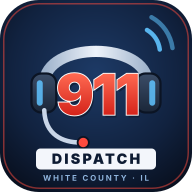
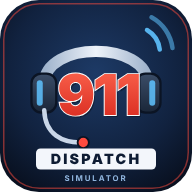
Legal hardening: fictional agency/hospital/business names, privacy note, license
- Real hospitals, police/fire/EMS agencies, sheriff's office, schools, businesses,
  phone carriers and product names replaced with fictional or generic names
- 911 center branding is now generic (Regional 911); logo and PNG icons updated
- About page: privacy section and names/trademarks note; copyright footer
- LICENSE (all rights reserved + disclaimer); README legal section; cache v4

Claude-Session: https://claude.ai/code/session_011PBpL3B4jtNJuyyqCt64h9

diff --git a/js/data/city.js b/js/data/city.js
@@ -412,54 +412,54 @@ export function nearestEdge(x, y, filter) {
 const C = TOWN_BY_ID.carmi;
 const T = (id, i, j, dx = 0, dy = 0) => { const t = TOWN_BY_ID[id]; return [t.xs[i] + dx, t.ys[j] + dy]; };
 const FACILITY_DEFS = [
-  ['police_hq', 'Carmi Police Department', ...T('carmi', 5, 4, 40, 35), 'Carmi PD'],
-  ['precinct', 'Norris City Police Department', ...T('norris', 2, 2, 40, 30), 'Norris City PD'],
-  ['precinct', 'Grayville Police Department', ...T('grayville', 2, 2, 40, -30), 'Grayville PD'],
-  ['precinct', 'Crossville Police Department', ...T('crossville', 2, 2, -35, 30), 'Crossville PD'],
-  ['precinct', 'Enfield Police Department', ...T('enfield', 2, 2, 35, -30), 'Enfield PD'],
-  ['sheriff', "White County Sheriff's Office", ...T('carmi', 6, 4, 45, -35), 'Sheriff'],
+  ['police_hq', 'City Police – Carmi', ...T('carmi', 5, 4, 40, 35), 'Police – Carmi'],
+  ['precinct', 'Town Police – Norris City', ...T('norris', 2, 2, 40, 30), 'Police – Norris City'],
+  ['precinct', 'Town Police – Grayville', ...T('grayville', 2, 2, 40, -30), 'Police – Grayville'],
+  ['precinct', 'Town Police – Crossville', ...T('crossville', 2, 2, -35, 30), 'Police – Crossville'],
+  ['precinct', 'Town Police – Enfield', ...T('enfield', 2, 2, 35, -30), 'Police – Enfield'],
+  ['sheriff', "County Sheriff's Office", ...T('carmi', 6, 4, 45, -35), 'Sheriff'],
   ['federal', 'Federal Field Office – I-64 staging', 12320, 1480, 'Federal'],
-  ['eoc', 'White County 911 & EMA (your center)', ...T('carmi', 4, 3, 40, 40), '911 / EMA'],
-  ['fire', 'Carmi Fire Department – Station 1', ...T('carmi', 4, 4, -40, 35), 'Carmi FD 1'],
-  ['fire', 'Carmi Fire Department – Station 2', ...T('carmi', 8, 6, 40, 30), 'Carmi FD 2'],
-  ['fire', 'Norris City Fire Department', ...T('norris', 3, 2, 35, -30), 'Norris City FD'],
-  ['fire', 'Enfield Fire Department', ...T('enfield', 2, 3, -35, 30), 'Enfield FD'],
-  ['fire', 'Crossville Fire Department', ...T('crossville', 3, 2, 35, 30), 'Crossville FD'],
-  ['fire', 'Grayville Fire Department', ...T('grayville', 3, 2, 35, 30), 'Grayville FD'],
-  ['fire', 'Mill Shoals Fire Department', ...T('millshoals', 2, 2, 35, 30), 'Mill Shoals FD'],
-  ['fire', 'Burnt Prairie Fire Department', ...T('burntprairie', 2, 2, 35, 30), 'Burnt Prairie FD'],
-  ['fire', 'Southeastern White County Fire (Maunie)', ...T('maunie', 1, 1, 30, 30), 'SE White FD'],
-  ['fire', 'Springerton Fire Department', ...T('springerton', 1, 1, 30, 30), 'Springerton FD'],
-  ['fire_hq', 'Carmi Fire Administration', ...T('carmi', 4, 4, -60, 60), 'Fire Admin'],
-  ['ems', 'White County Ambulance Service (Carmi)', ...T('carmi', 3, 5, 40, 35), 'WCAS Carmi'],
-  ['ems', 'White County Ambulance – Norris City', ...T('norris', 1, 2, 35, 30), 'WCAS Norris'],
-  ['ems', 'White County Ambulance – Grayville', ...T('grayville', 1, 2, 35, 30), 'WCAS Grayville'],
-  ['ems', 'White County Ambulance – Crossville', ...T('crossville', 1, 2, 35, -30), 'WCAS Crossville'],
-  ['hospital', 'Carmi Township Hospital', ...T('carmi', 2, 6, 55, 40), 'Carmi Twp Hospital', { trauma: 3 }],
-  ['hospital', 'Deaconess Midtown (Evansville, IN)', 22520, 10050, 'Deaconess', { trauma: 1, outside: true }],
-  ['hospital', 'Ferrell Hospital (Eldorado)', -1620, 15700, 'Ferrell Hosp.', { trauma: 3, outside: true }],
-  ['hospital', 'Fairfield Memorial Hospital', 520, -3640, 'Fairfield Mem.', { trauma: 3, outside: true }],
-  ['hospital_helipad', 'Carmi Township Hospital Helipad', ...T('carmi', 2, 6, 25, 75), 'Helipad'],
+  ['eoc', 'Regional 911 Center (your center)', ...T('carmi', 4, 3, 40, 40), '911 / EMA'],
+  ['fire', 'Fire Station 1 – Carmi', ...T('carmi', 4, 4, -40, 35), 'Fire 1 – Carmi'],
+  ['fire', 'Fire Station 2 – Carmi', ...T('carmi', 8, 6, 40, 30), 'Fire 2 – Carmi'],
+  ['fire', 'Fire Station – Norris City', ...T('norris', 3, 2, 35, -30), 'Fire – Norris City'],
+  ['fire', 'Fire Station – Enfield', ...T('enfield', 2, 3, -35, 30), 'Fire – Enfield'],
+  ['fire', 'Fire Station – Crossville', ...T('crossville', 3, 2, 35, 30), 'Fire – Crossville'],
+  ['fire', 'Fire Station – Grayville', ...T('grayville', 3, 2, 35, 30), 'Fire – Grayville'],
+  ['fire', 'Fire Station – Mill Shoals', ...T('millshoals', 2, 2, 35, 30), 'Fire – Mill Shoals'],
+  ['fire', 'Fire Station – Burnt Prairie', ...T('burntprairie', 2, 2, 35, 30), 'Fire – Burnt Prairie'],
+  ['fire', 'Fire Station – Maunie', ...T('maunie', 1, 1, 30, 30), 'Fire – Maunie'],
+  ['fire', 'Fire Station – Springerton', ...T('springerton', 1, 1, 30, 30), 'Fire – Springerton'],
+  ['fire_hq', 'Fire Administration – Carmi', ...T('carmi', 4, 4, -60, 60), 'Fire Admin'],
+  ['ems', 'County EMS – Carmi', ...T('carmi', 3, 5, 40, 35), 'EMS – Carmi'],
+  ['ems', 'County EMS – Norris City', ...T('norris', 1, 2, 35, 30), 'EMS – Norris'],
+  ['ems', 'County EMS – Grayville', ...T('grayville', 1, 2, 35, 30), 'EMS – Grayville'],
+  ['ems', 'County EMS – Crossville', ...T('crossville', 1, 2, 35, -30), 'EMS – Crossville'],
+  ['hospital', 'Riverbend Medical Center', ...T('carmi', 2, 6, 55, 40), 'Riverbend Medical', { trauma: 3 }],
+  ['hospital', 'Tri-State Regional Trauma Center (Evansville, IN)', 22520, 10050, 'Tri-State Trauma', { trauma: 1, outside: true }],
+  ['hospital', 'Saline Valley Hospital (Eldorado)', -1620, 15700, 'Saline Valley Hosp.', { trauma: 3, outside: true }],
+  ['hospital', 'Prairie View Hospital (Fairfield)', 520, -3640, 'Prairie View Hosp.', { trauma: 3, outside: true }],
+  ['hospital_helipad', 'Riverbend Medical Center Helipad', ...T('carmi', 2, 6, 25, 75), 'Helipad'],
   ['airport', 'Carmi Municipal Airport', 5880, 7360, 'Carmi Airport'],
   ['marina', 'Grayville Wabash River Boat Ramp', ...T('grayville', 4, 2, 60, 0), 'Boat Ramp'],
   ['coastguard', 'Wabash River Station (IL-14 landing)', 11380, 4820, 'River Station'],
-  ['sar', 'White County Search & Rescue', ...T('carmi', 7, 6, 40, 30), 'SAR'],
+  ['sar', 'County Search & Rescue', ...T('carmi', 7, 6, 40, 30), 'SAR'],
   ['public_works', 'Carmi Public Works / County Highway Dept', ...T('carmi', 8, 1, 40, 30), 'Public Works'],
-  ['animal_control', 'White County Animal Control', ...T('carmi', 6, 7, 40, 30), 'Animal Ctrl'],
-  ['dot', 'IDOT Maintenance Yard (Carmi)', 5180, 6230, 'IDOT'],
+  ['animal_control', 'County Animal Control', ...T('carmi', 6, 7, 40, 30), 'Animal Ctrl'],
+  ['dot', 'State Highway Maintenance Yard (Carmi)', 5180, 6230, 'State DOT'],
   ['utility', 'Electric Co-op Operations Center', ...T('carmi', 7, 0, 40, 30), 'Electric Co-op'],
 ];
 
 const POI_DEFS = [
   ['White County Courthouse', ...T('carmi', 5, 4, -45, -40), 'downtown', 'government'],
   ['Carmi City Hall', ...T('carmi', 5, 4, 45, -40), 'downtown', 'government'],
-  ['Carmi-White County High School', ...T('carmi', 2, 0, 55, 45), 'institutional', 'school'],
-  ['Carmi-White County Junior High', ...T('carmi', 1, 1, 55, 45), 'residential', 'school'],
+  ['Carmi Area High School', ...T('carmi', 2, 0, 55, 45), 'institutional', 'school'],
+  ['Carmi Area Junior High', ...T('carmi', 1, 1, 55, 45), 'residential', 'school'],
   ['Carmi Elementary School', ...T('carmi', 7, 2, 55, 45), 'residential', 'school'],
   ['White County Fairgrounds', ...T('carmi', 9, 0, 120, -160), 'commercial', 'arena'],
-  ['The Ratcliff Inn', ...T('carmi', 4, 4, 55, -38), 'downtown', 'hotel'],
+  ['The Old Courthouse Inn', ...T('carmi', 4, 4, 55, -38), 'downtown', 'hotel'],
   ['Carmi Supercenter', ...T('carmi', 2, 7, -45, 40), 'commercial', 'mall'],
-  ['County Market Grocery', ...T('carmi', 1, 5, 55, 35), 'commercial', 'grocery'],
+  ['Main Street Grocery', ...T('carmi', 1, 5, 55, 35), 'commercial', 'grocery'],
   ['QuickStop Gas – West Main', ...T('carmi', 1, 4, 55, 35), 'commercial', 'gas'],
   ['QuickStop Gas – East Main', ...T('carmi', 8, 4, 55, -35), 'commercial', 'gas'],
   ['Main Street Diner', ...T('carmi', 5, 4, 55, 38), 'downtown', 'restaurant'],
@@ -476,7 +476,7 @@ const POI_DEFS = [
   ['Carmi Rail Spur', ...T('carmi', 8, 1, 60, 60), 'industrial', 'railyard'],
   ['Little Wabash River Boat Access', 6520, 6240, 'commercial', 'boardwalk'],
   ['Carmi Office Plaza', ...T('carmi', 6, 3, 55, 45), 'downtown', 'office'],
-  ['Norris City-Omaha-Enfield High School', ...T('norris', 0, 1, 50, 45), 'residential', 'school'],
+  ['Southern Prairie High School', ...T('norris', 0, 1, 50, 45), 'residential', 'school'],
   ['Norris City Dollar Store', ...T('norris', 2, 2, -45, -40), 'commercial', 'store'],
   ['Grayville Truck Stop (I-64 Exit 130)', 10560, 1700, 'commercial', 'gas'],
   ['Grayville Riverfront Park', ...T('grayville', 4, 1, 60, 40), 'park', 'park'],

diff --git a/js/ai/staffDialogue.js b/js/ai/staffDialogue.js
@@ -15,8 +15,8 @@ export const STAFF = [
   { id: 'karen', name: 'Karen Whitfield', role: 'Shift Supervisor', sex: 'f', pitch: 0.95, rate: 1.0, personality: 'no-nonsense but fair supervisor who protects her people', kind: 'supervisor' },
   { id: 'marcus', name: 'Marcus Reyes', role: 'Training Officer', sex: 'm', pitch: 0.95, rate: 0.98, personality: 'enthusiastic teacher who loves explaining things', kind: 'trainer' },
   { id: 'helen', name: 'Helen Park', role: 'Communications Director', sex: 'f', pitch: 0.97, rate: 0.95, personality: 'thoughtful leader focused on her team\'s growth', kind: 'director' },
-  { id: 'jake', name: 'Officer Jake Morrison', role: 'Carmi PD (visiting)', sex: 'm', pitch: 0.9, rate: 1.0, personality: 'friendly patrol cop grabbing coffee between calls', kind: 'visitor', dept: 'police' },
-  { id: 'lou', name: 'Lt. Lou Bennett', role: 'Carmi FD (visiting)', sex: 'm', pitch: 0.82, rate: 0.92, personality: 'big-hearted fire lieutenant who tells long stories', kind: 'visitor', dept: 'fire' },
+  { id: 'jake', name: 'Officer Jake Morrison', role: 'City Police (visiting)', sex: 'm', pitch: 0.9, rate: 1.0, personality: 'friendly patrol cop grabbing coffee between calls', kind: 'visitor', dept: 'police' },
+  { id: 'lou', name: 'Lt. Lou Bennett', role: 'Fire Dept. (visiting)', sex: 'm', pitch: 0.82, rate: 0.92, personality: 'big-hearted fire lieutenant who tells long stories', kind: 'visitor', dept: 'fire' },
   // Department leadership (fictional characters)
   { id: 'captain', name: LEADERS.captain.name, role: 'Captain', sex: 'm', pitch: 0.88, rate: 0.95, personality: 'steady, plain-spoken leader who backs his people', kind: 'command', home: 'sheriff_desk' },
   { id: 'watch', name: LEADERS.watch.name, role: 'Watch Commander', sex: 'm', pitch: 0.92, rate: 1.0, personality: 'sharp, dry-humored night-shift veteran who runs the watch', kind: 'command', home: 'brief_room' },
@@ -24,7 +24,7 @@ export const STAFF = [
   { id: 'ruiz', name: 'Deputy Ana Ruiz', role: 'Patrol Deputy (visiting)', sex: 'f', pitch: 1.0, rate: 1.05, personality: 'quick, upbeat patrol deputy', kind: 'visitor', dept: 'police', storyKey: 'deputy' },
   { id: 'hensley', name: 'Deputy Cole Hensley', role: 'Patrol Deputy (visiting)', sex: 'm', pitch: 0.9, rate: 1.0, personality: 'laid-back farm-kid deputy', kind: 'visitor', dept: 'police', storyKey: 'deputy' },
   { id: 'hale', name: 'Sgt. Mike Hale', role: 'Range & Armory Sergeant', sex: 'm', pitch: 0.86, rate: 0.96, personality: 'by-the-book armorer and range master, safety above all', kind: 'visitor', dept: 'police', storyKey: 'deputy' },
-  { id: 'sam', name: 'Paramedic Sam Ortiz', role: 'White County Ambulance (visiting)', sex: 'f', pitch: 1.0, rate: 1.05, personality: 'quick-witted medic, dark humor, loves the dispatchers', kind: 'visitor', dept: 'ems' },
+  { id: 'sam', name: 'Paramedic Sam Ortiz', role: 'County EMS (visiting)', sex: 'f', pitch: 1.0, rate: 1.05, personality: 'quick-witted medic, dark humor, loves the dispatchers', kind: 'visitor', dept: 'ems' },
 ];
 
 const DEFS = {
@@ -56,7 +56,7 @@ const DEFS = {
 const L = {
   greet: { _: ['Hey there.', 'Hi! Good to see you.', 'Oh, hey!', 'Hey, how\'s it going?'], ray: ['Hey, kid.', 'Mm. Morning. Or whatever time it is.'], tyler: ['Oh hey! What\'s up?', 'Heyyy. You want an energy drink? I have like six.'], karen: ['Hello. Everything okay at your console?'], helen: ['Hello! Nice to see you on the floor.'] },
   how: { _: ['Doing alright, thanks for asking.', 'Hanging in there. You?', 'Not bad! Busy, but good.'], ray: ['I\'ve been doing this twenty-eight years. I\'m always "fine."', 'My back hurts and the coffee\'s burnt. So, normal.'], tyler: ['Honestly? My heart\'s still racing from that last call. But good!'], sam: ['Living the dream. Smells like diesel and hospital food, but living it.'], lou: ['Can\'t complain! Well, I can, but nobody listens.'] },
-  who: { _: ['I\'m {name}, {role}.', '{name}. I\'m the {role} here.'], ray: ['Ray Kowalski. I\'ve been here since the radios were the size of refrigerators.'], helen: ['I\'m Helen Park, the Communications Director. My door\'s always open.'], jake: ['Jake Morrison, Carmi PD. I work nights mostly, west side of town.'], lou: ['Lou Bennett, Captain with Carmi Fire. Been on the job twenty-two years.'], sam: ['Sam Ortiz, paramedic on Medic 12. Your voice is the one that sends me places!'] },
+  who: { _: ['I\'m {name}, {role}.', '{name}. I\'m the {role} here.'], ray: ['Ray Kowalski. I\'ve been here since the radios were the size of refrigerators.'], helen: ['I\'m Helen Park, the Communications Director. My door\'s always open.'], jake: ['Jake Morrison, City Police. I work nights mostly, west side of town.'], lou: ['Lou Bennett, Captain with Carmi Fire. Been on the job twenty-two years.'], sam: ['Sam Ortiz, paramedic on Medic 12. Your voice is the one that sends me places!'] },
   job: { _: ['I answer calls and keep everybody safe. Best job I\'ve ever had, and the hardest.', 'I love it. You\'re the first first responder, you know?'], ray: ['I came here for six months while I looked for something better. That was 1998.'], tyler: ['Six months in. Still learning. Maria says I\'m doing okay.'], denise: ['I was a paramedic for nine years. Now I send the paramedics. It\'s a different kind of pressure.'], karen: ['I keep the floor running, make sure everyone gets breaks, and catch what falls through the cracks.'], marcus: ['I train new dispatchers. Watching someone handle their first big call calmly? Best feeling.'], helen: ['I run the center – budgets, staffing, equipment, and making sure people like you grow.'] },
   greet_cmd: { captain: ['Morning. How\'s the floor treating you?', 'Good to see you. Keep my deputies safe out there, alright?'], watch: ['Hey. Quiet so far — don\'t say it out loud.', 'Evening. The watch is yours as much as mine.'], chief: ['Hey there. Just stopped by to see the folks who send us out.', 'Howdy. Got any coffee left?'] },
   bye: { _: ['Talk to you later.', 'Good luck out there.', 'See you around.', 'Go get \'em.'], ray: ['Don\'t let the phones bite.'], tyler: ['Later! Don\'t forget to hydrate!'], karen: ['Head back to your console when you\'re ready.'] },
@@ -73,7 +73,7 @@ const L = {
     sam: ['Delivered a baby in the back of Medic 12 on the IL-14 shoulder outside Enfield. The parents named him after the dispatcher. True story.'],
     jake: ['I chased a guy on foot for six blocks and dispatch had K-9 and the helicopter waiting at the end before I even asked. That\'s when I realized you guys are basically wizards.'],
   },
-  city: { _: ['Carmi is the county seat – the courthouse square, Main Street is IL-14 and IL-1 through town, and the Little Wabash runs right along the east side. Everything east of the river takes a minute longer.', 'White County is big and rural. Grayville up by I-64, Norris City and Enfield on US-45, Crossville out east on IL-14 and IL-1. A run from Carmi to Grayville is twenty minutes, so pick the closest units.', 'Carmi Township Hospital takes most of our patients. Real bad trauma goes to Deaconess in Evansville – that\'s a long drive, think about LifeFlight.', 'Watch out in harvest season: grain trucks, combines on the highway, and grain bin calls. And this is oil country – a tank battery fire or an H2S leak is no joke.'] },
+  city: { _: ['Carmi is the county seat – the courthouse square, Main Street is IL-14 and IL-1 through town, and the Little Wabash runs right along the east side. Everything east of the river takes a minute longer.', 'White County is big and rural. Grayville up by I-64, Norris City and Enfield on US-45, Crossville out east on IL-14 and IL-1. A run from Carmi to Grayville is twenty minutes, so pick the closest units.', 'Riverbend Medical Center takes most of our patients. Real bad trauma goes to Tri-State Trauma in Evansville – that\'s a long drive, think about Air Medical.', 'Watch out in harvest season: grain trucks, combines on the highway, and grain bin calls. And this is oil country – a tank battery fire or an H2S leak is no joke.'] },
   departments: { _: ['Rule of thumb: fires get engines, a ladder, a chief and an ambulance. Crashes with injuries get police, an engine and EMS. But it\'s your call – I\'ve seen people pull SWAT for a barricaded guy and it was the right move.', 'Look at the Recommended units in the assign window. They\'re just suggestions, though – you know the situation better than the computer.', 'Specialty units are precious. Don\'t burn your only HazMat truck on a gas odor unless it\'s bad.'] },
 };
 

diff --git a/js/data/scenarios/expansion_medical_traffic.js b/js/data/scenarios/expansion_medical_traffic.js
@@ -37,15 +37,15 @@ export default [
     vars: (r) => ({ ...patientVars(r, { minAge: 8, maxAge: 75 }), what: r.pick(['a bee', 'wasps', 'a yellow jacket nest', 'hornets']) }),
     nature: ['{rel} got stung by {what} and now {his} face is swelling up and {he} says {his} throat feels tight.', '{rel} is allergic and got stung by {what}! {He}\'s breaking out in hives all over.'],
     note: 'Allergic reaction to sting – {what}', callerAtScene: true,
-    facts: { breathing: { say: '{He} says it\'s getting harder to breathe.', note: 'Throat tightness, difficulty breathing' }, conscious: 'Yeah, {he}\'s awake.', history: '{He}\'s allergic, {he} has an EpiPen somewhere.', age: '{He}\'s {page}.' },
-    instructions: { position: ['Okay, found the EpiPen, I gave it in {his} thigh like you said.'] }, patients: 1, critical: (r) => r.chance(0.3), needs: { als: 1 },
+    facts: { breathing: { say: '{He} says it\'s getting harder to breathe.', note: 'Throat tightness, difficulty breathing' }, conscious: 'Yeah, {he}\'s awake.', history: '{He}\'s allergic, {he} has an epinephrine auto-injector somewhere.', age: '{He}\'s {page}.' },
+    instructions: { position: ['Okay, found the epinephrine auto-injector, I gave it in {his} thigh like you said.'] }, patients: 1, critical: (r) => r.chance(0.3), needs: { als: 1 },
     clear: ['epinephrine given, symptoms improving, transported.'] }),
   S({ id: 'med_dialysis_missed', typeId: 'MED_SICK', weight: 0.8, severity: 'medium', personas: ['worried', 'elderly', 'calm'],
     vars: (r) => patientVars(r, { minAge: 50, maxAge: 85, relations: ['my husband', 'my wife', 'my mother', 'my father'] }),
     nature: ['{rel} missed {his} dialysis because of the weather and now {he}\'s really weak and short of breath.'],
     note: 'Missed dialysis, weakness, SOB', callerAtScene: true,
     facts: { breathing: { say: '{He}\'s really short of breath, worse lying down.', note: 'SOB, orthopnea' }, conscious: 'Awake, but tired.', history: '{He}\'s on dialysis three times a week, kidney failure.', age: '{He}\'s {page}.' },
-    patients: 1, needs: { als: 1 }, clear: ['transported to Carmi Township Hospital for evaluation.'] }),
+    patients: 1, needs: { als: 1 }, clear: ['transported to Riverbend Medical Center for evaluation.'] }),
   S({ id: 'med_fall_ladder', typeId: 'MED_FALL', weight: 1.4, severity: 'medium', personas: MED,
     vars: (r) => ({ ...patientVars(r, { minAge: 25, maxAge: 82, relations: ['my husband', 'my dad', 'my neighbor', 'my brother'] }), from: r.pick(['a ladder cleaning the gutters', 'the hay loft', 'the roof', 'a deer stand', 'the back of a pickup']) }),
     nature: ['{rel} fell off {from}! {He}\'s on the ground and says {his} back hurts.', '{rel} fell from {from}, maybe ten feet, and {he}\'s not getting up.'],
@@ -66,7 +66,7 @@ export default [
     vars: (r) => patientVars(r, { minAge: 65, maxAge: 92, relations: ['my husband', 'my wife', 'I'] }),
     nature: ['{rel}\'s nose has been bleeding for over half an hour and won\'t stop. {He}\'s on blood thinners.'],
     note: 'Uncontrolled epistaxis x30 min, anticoagulated', callerAtScene: true,
-    facts: { bleeding: { say: 'It\'s soaked through three towels.', note: 'Heavy, 3 towels' }, conscious: 'Yes.', history: '{He} takes Eliquis for {his} heart.', age: '{page}.' },
+    facts: { bleeding: { say: 'It\'s soaked through three towels.', note: 'Heavy, 3 towels' }, conscious: 'Yes.', history: '{He} takes a blood thinner for {his} heart.', age: '{page}.' },
     instructions: { pressure: ['Okay, leaning forward and pinching the soft part of the nose.'] }, patients: 1, needs: { bls: 1 }, clear: ['bleeding controlled, transported for evaluation.'] }),
   S({ id: 'med_pregnancy_bleeding', typeId: 'MED_BIRTH', weight: 0.7, severity: 'medium', personas: ['panicked', 'worried'], callerSex: 'f',
     vars: (r) => ({ weeks: r.pick(['thirty', 'thirty-four', 'thirty-six', 'twenty-eight']) }),

diff --git a/js/data/scenarios/medical.js b/js/data/scenarios/medical.js
@@ -45,7 +45,7 @@ export default [
     facts: { conscious: { say: '{He} won\'t wake up, {he} just groans.', note: 'Minimally responsive' }, breathing: { say: '{He}\'s breathing really slow, like snoring.', note: 'Slow, snoring respirations' }, drugs: '{He} uses... I think it was heroin, or fentanyl maybe.', age: '{He}\'s like {page}.' },
     instructions: { position: ['Okay, I rolled {him} on {his} side.'] }, patients: 1, critical: true, needs: { als: 1, patrol: 0.5 },
     developments: [{ after: 60, chance: 0.4, text: 'Caller says the patient stopped breathing.', callerLine: '{He} stopped breathing! I don\'t think {he}\'s breathing!', addNeeds: { als: 1 } }],
-    clear: ['Narcan administered, patient responsive, transported.'] }),
+    clear: ['Naloxone administered, patient responsive, transported.'] }),
   S({ id: 'diabetic', typeId: 'MED_DIABETIC', weight: 2, personas: MED_PERSONAS,
     vars: (r) => patientVars(r, { minAge: 10, maxAge: 85 }),
     nature: [`{rel} is diabetic and {he}'s acting really confused and sweaty. I think {his} sugar is low.`],
@@ -65,8 +65,8 @@ export default [
     vars: (r) => ({ ...patientVars(r, { minAge: 6, maxAge: 60, relations: ['my son', 'my daughter', 'my husband', 'my friend'] }), food: r.pick(['peanuts', 'shellfish', 'a bee sting', 'something at the restaurant']) }),
     nature: [`{rel} is having an allergic reaction to {food}, {his} face is swelling up!`, `{rel} got into {food} and {his} throat is closing!`],
     note: 'Allergic reaction ({food}), facial swelling', callerAtScene: true,
-    facts: { breathing: { say: '{He}\'s having a hard time breathing, it sounds tight.', note: 'Difficulty breathing, stridor' }, conscious: 'Yes, but {he}\'s scared.', history: '{He}\'s allergic to {food}. We have an EpiPen.' },
-    instructions: { position: ['Okay, I gave {him} the EpiPen in the thigh!'] }, patients: 1, critical: true }),
+    facts: { breathing: { say: '{He}\'s having a hard time breathing, it sounds tight.', note: 'Difficulty breathing, stridor' }, conscious: 'Yes, but {he}\'s scared.', history: '{He}\'s allergic to {food}. We have an epinephrine auto-injector.' },
+    instructions: { position: ['Okay, I gave {him} the epinephrine auto-injector in the thigh!'] }, patients: 1, critical: true }),
   S({ id: 'childbirth', typeId: 'MED_BIRTH', weight: 0.9, severity: 'medium', personas: ['panicked', 'worried', 'calm'], callerSex: 'm',
     vars: () => ({ rel: 'my wife' }),
     nature: [`My wife is in labor and the baby is coming now! We're not going to make it to the hospital!`],

diff --git a/js/engine/textures.js b/js/engine/textures.js
@@ -241,7 +241,7 @@ export function makeTextures(size = 256) {
     const cx = 64, cy = 64; g.fillStyle = '#d9b23a'; g.beginPath(); for (let i = 0; i < 14; i++) { const a = -Math.PI / 2 + i * Math.PI / 7; const rr = i % 2 ? 22 : 46; g.lineTo(cx + Math.cos(a) * rr, cy + Math.sin(a) * rr); } g.closePath(); g.fill();
     g.fillStyle = '#0a0a0b'; g.beginPath(); g.arc(cx, cy, 14, 0, 6.283); g.fill();
     g.fillStyle = '#f4f4f2'; g.font = '900 58px system-ui, sans-serif'; g.textBaseline = 'middle'; g.fillText('SHERIFF', 124, 52);
-    g.fillStyle = '#d9b23a'; g.font = '800 22px system-ui, sans-serif'; g.fillText('WHITE COUNTY · ILLINOIS', 126, 100); T.sheriffDoor = c; }
+    g.fillStyle = '#d9b23a'; g.font = '800 22px system-ui, sans-serif'; g.fillText('COUNTY SHERIFF', 126, 100); T.sheriffDoor = c; }
   // Roll-up garage door
   T.rollup = paint(S, (x, y, n) => { const slat = (y % Math.round(S / 12)); const v = 168 + (n - 0.5) * 18 + (slat < 2 * k ? -40 : slat < 4 * k ? 18 : 0); return [clamp(v), clamp(v + 2), clamp(v + 6)]; }, { offset: 13 });
   // Whiteboard with marker notes
@@ -255,7 +255,7 @@ export function makeTextures(size = 256) {
     g.fillStyle = '#2f8a3a'; g.fillText('Range qual Fri ✓', 316, 128); g.fillStyle = '#222'; g.fillText('K-9 Bo: vet Tue', 316, 156); T.whiteboard = c; }
   // Roll-call slide on the briefing display
   { const c = cv(512, 288); const g = c.getContext('2d'); const grd = g.createLinearGradient(0, 0, 0, 288); grd.addColorStop(0, '#13223d'); grd.addColorStop(1, '#0a1222'); g.fillStyle = grd; g.fillRect(0, 0, 512, 288);
-    g.fillStyle = '#d9b23a'; g.fillRect(0, 0, 512, 40); g.fillStyle = '#0a1222'; g.font = '900 24px system-ui'; g.fillText("ROLL CALL · WHITE COUNTY SHERIFF'S OFFICE", 14, 28);
+    g.fillStyle = '#d9b23a'; g.fillRect(0, 0, 512, 40); g.fillStyle = '#0a1222'; g.font = '900 24px system-ui'; g.fillText("ROLL CALL · COUNTY SHERIFF'S OFFICE", 14, 28);
     g.fillStyle = '#dfe8f5'; g.font = '700 18px system-ui';
     ['• BOLO: dark green pickup, dented tailgate (IL-14 thefts)', '• Deer activity high – river bottoms after dusk', '• Harvest traffic on IL-1 & IL-14', '• Grain bin safety checks – Enfield area', '• Courthouse security: 0800–1700'].forEach((l, i) => g.fillText(l, 18, 78 + i * 34));
     g.fillStyle = '#64d2ff'; g.font = '700 14px system-ui'; g.fillText('BE SAFE · WEAR YOUR VEST · CHECK YOUR RADIO', 18, 270); T.briefing = c; }

diff --git a/js/ai/stories.js b/js/ai/stories.js
@@ -15,7 +15,7 @@ export const STORIES = {
     'The best compliment I ever got was from a deputy who said, "When you\'re on the radio I stop worrying." That\'s what we\'re here for.',
   ],
   tyler: [
-    'My second week, a guy called to report a "suspicious UFO." It was the Walmart parking lot light flickering. I still sent a unit. I\'m thorough.',
+    'My second week, a guy called to report a "suspicious UFO." It was the supercenter parking lot light flickering. I still sent a unit. I\'m thorough.',
     'I had a call from a kid who dialed 911 to ask if dinosaurs were real. I said yes, but they live in museums now. His mom took the phone and apologized like six times.',
     'One night a lady called because a possum was in her kitchen eating her cat\'s food and staring at her. Animal control was off, so the deputy went. He said the possum won the staring contest.',
     'I took my first structure fire call on Thanksgiving. I was so nervous I said "Engine One, respond to the turkey—" instead of the address. Ray still brings it up.',
@@ -95,7 +95,7 @@ export const STORIES = {
     'When I was a young deputy, I got lost on a county road at night during a pursuit. The dispatcher talked me through every turn from memory. That night I promised myself I\'d always back my dispatchers.',
     'The best roll call I ever gave was thirty seconds long: "Be safe, be kind, come home." Some days that\'s all that needs saying.',
     'We once found a missing child asleep in a neighbor\'s hay barn because a dispatcher noticed the family\'s barn cat followed the kid everywhere. Ask the odd questions.',
-    'During the big flood, I watched dispatch coordinate boats, deputies, fire crews and the Red Cross for thirty hours straight. I\'ve been in this job a long time and I\'ve never seen a better team.',
+    'During the big flood, I watched dispatch coordinate boats, deputies, fire crews and disaster-relief volunteers for thirty hours straight. I\'ve been in this job a long time and I\'ve never seen a better team.',
     'I keep a radio log page framed in my office from the night a deputy was in a crash. Every line is the dispatcher staying calm. That\'s what professionalism looks like.',
     'First week as Captain, I tried to run roll call without coffee. The Watch Commander slid a cup across the podium without saying a word. That\'s partnership.',
   ],

diff --git a/js/ui/cad/cadDetail.js b/js/ui/cad/cadDetail.js
@@ -7,7 +7,7 @@
 import { city, SCALE, miles, nearestFacility, TOWNS } from '../../data/city.js';
 import { TOWNSHIPS } from './mapDetail.js';
 
-const PD_TOWNS = { carmi: 'Carmi PD', norris: 'Norris City PD', grayville: 'Grayville PD', crossville: 'Crossville PD', enfield: 'Enfield PD' };
+const PD_TOWNS = { carmi: 'Police – Carmi', norris: 'Police – Norris City', grayville: 'Police – Grayville', crossville: 'Police – Crossville', enfield: 'Police – Enfield' };
 
 function hash(str) { let h = 2166136261; for (let i = 0; i < str.length; i++) { h ^= str.charCodeAt(i); h = Math.imul(h, 16777619); } return h >>> 0; }
 function townOf(x, y) { return TOWNS.find((t) => x >= t.x0 - 40 && x <= t.x1 + 40 && y >= t.y0 - 40 && y <= t.y1 + 40) || null; }
@@ -23,9 +23,9 @@ function sheriffDistrict(x, y) {
 
 export function jurisdiction(x, y) {
   const t = townOf(x, y);
-  const law = t && PD_TOWNS[t.id] ? PD_TOWNS[t.id] : "White County Sheriff's Office";
+  const law = t && PD_TOWNS[t.id] ? PD_TOWNS[t.id] : "County Sheriff's Office";
   let beat;
-  if (t?.id === 'carmi') beat = `Carmi PD Beat ${(x < t.x ? 1 : 2) + (y < t.y ? 0 : 2)}`;
+  if (t?.id === 'carmi') beat = `City Police Beat ${(x < t.x ? 1 : 2) + (y < t.y ? 0 : 2)}`;
   else if (t && PD_TOWNS[t.id]) beat = `${PD_TOWNS[t.id]} – Town`;
   else beat = `WCSO ${sheriffDistrict(x, y)}`;
   const fire = nearestFacility(x, y, ['fire']); const ems = nearestFacility(x, y, ['ems']); const hosp = nearestFacility(x, y, ['hospital']);
@@ -93,7 +93,7 @@ export function incidentTimers(inc, nowClock) {
   };
 }
 
-const CARRIERS_W = ['AT&T Mobility', 'Verizon Wireless', 'T-Mobile USA', 'UScellular'];
+const CARRIERS_W = ['Prairie Wireless', 'Heartland Cellular', 'Tri-State Mobile', 'Midwest Telecom'];
 const CARRIERS_L = ['Frontier Communications', 'Wabash Telephone Co-op', 'Spectrum (Charter)'];
 /** Extra ANI/ALI fields shown on the call-taking screen. */
 export function aniDetail(ani) {
@@ -104,7 +104,7 @@ export function aniDetail(ani) {
   return {
     cos, carrier, j,
     confidence: ani.kind === 'wireless' ? `${90}% within ±${ani.radius}m` : 'Registered address',
-    psap: 'White Co 911 · PSAP 1193',
+    psap: 'Regional 911 · PSAP 1193',
     callback: ani.phone,
     tower: ani.sector || null,
   };

diff --git a/js/ui/menu.js b/js/ui/menu.js
@@ -178,6 +178,8 @@ export class Menu {
       <h3>Talking to callers</h3><div class="muted" style="font-size:.92em;line-height:1.6">Use the microphone (Chrome, Edge and Safari support speech recognition), type naturally, or tap suggested questions. The conversation engine runs locally: it recognizes many different ways of asking the same thing, remembers what was said, and callers react to reassurance and instructions. It is a rule-based engine with intent recognition – not a full AI – so unusual phrasings can be misunderstood. Suggested questions always work.
         <br><br><b>Optional:</b> if you run a free local language model on your own computer (Ollama or LM Studio), you can enable it in Settings → Speech &amp; AI to make callers' wording more natural. It is never required and no keys or accounts are involved.</div>
       <h3>Technology</h3><div class="muted" style="font-size:.92em;line-height:1.6">HTML, CSS and JavaScript with a custom lightweight WebGL renderer, browser speech APIs, procedural Web Audio, and localStorage saves. Everything runs locally from a static website – no servers or keys.</div>
-      <div class="menu-foot">${CREDIT}</div></div>`;
+      <h3>Privacy</h3><div class="muted" style="font-size:.92em;line-height:1.6">This game has no accounts, ads, analytics or tracking, and collects no personal information. Your settings and saved progress stay in your own browser (localStorage) and can be erased any time under Data. If you use the microphone, speech recognition is handled by your browser; some browsers (for example Chrome) send that audio to their own speech service to turn it into text. You never have to use the microphone – typing works the same.</div>
+      <h3>Names &amp; trademarks</h3><div class="muted" style="font-size:.92em;line-height:1.6">Agencies, hospitals, businesses, schools and units in the game are fictional or generic. Real town, county and road names are used only to describe the setting. Any resemblance to real people or events is coincidental.</div>
+      <div class="menu-foot">© 2026 Drone Hive Studios. All rights reserved. · ${CREDIT}</div></div>`;
   }
 }

diff --git a/js/ui/tutorial.js b/js/ui/tutorial.js
@@ -9,7 +9,7 @@ export class Tutorial {
     const call = () => g.sim.calls.byId(this.flags.callId);
     const inc = () => (call()?.incidentId ? g.sim.incidents.byId(call().incidentId) : null);
     this.steps = [
-      { title: 'Welcome to White County 911', text: 'This is your dispatch center. Your workstation is the desk with the glowing blue monitors right in front of you. Walk to it and press <b>E</b> (or tap <b>Desk</b> on mobile). You can also press <b>Tab</b> to go straight there.', check: () => g.cad.open },
+      { title: 'Welcome to Regional 911', text: 'This is your dispatch center. Your workstation is the desk with the glowing blue monitors right in front of you. Walk to it and press <b>E</b> (or tap <b>Desk</b> on mobile). You can also press <b>Tab</b> to go straight there.', check: () => g.cad.open },
       { title: 'A call is coming in', text: 'This is the CAD – your dispatch computer. A training call is ringing on Line 1. Click <b>Answer</b> (or press <b>A</b>).', enter: () => { const c = g.sim.calls.spawnCall({ templateId: 'training_basic' }); this.flags.callId = c.id; g.cad.showScreen('calls'); }, highlight: '[data-screen="calls"] [data-act="answer"]', check: () => call()?.status === 'active' },
       { title: 'Find out where', text: 'The most important question is always <b>where</b>. Ask the caller for the address – type it, use the 🎤 microphone, or click the suggested question <i>"What is the address of your emergency?"</i>', highlight: '[data-screen="calls"] .suggest', check: () => call()?.convo.revealed.location },
       { title: 'Confirm the address', text: 'Read the address back to make sure you heard it right – click <b>✔ Read back address</b> or type it back. Verified addresses mean units go to the right place.', highlight: '[data-screen="calls"] .chip.verify', check: () => call()?.verified, skippable: true },

diff --git a/js/data/departments.js b/js/data/departments.js
@@ -124,7 +124,7 @@ export const UNIT_TYPES = [
     numbers: [1], speed: 1.1, caps: { ems_command: 1, als: 0.5 } },
   { id: 'cct', dept: 'ems', name: 'Critical Care Transport', prefix: 'CCT', glyph: 'CC', station: ['hospital'], channel: 'ems',
     numbers: [2], speed: 1.0, caps: { critical_care: 1, als: 1, transport: 1 } },
-  { id: 'air_medical', dept: 'ems', name: 'Air Medical', prefix: 'LifeFlight', glyph: 'LF', station: ['hospital_helipad'], channel: 'ems',
+  { id: 'air_medical', dept: 'ems', name: 'Air Medical', prefix: 'Air Medical', glyph: 'LF', station: ['hospital_helipad'], channel: 'ems',
     numbers: [1], speed: 2.6, air: true, caps: { air_medical: 1, critical_care: 1, transport: 1, als: 1 } },
   // ---- Additional services ----
   { id: 'em', dept: 'em', name: 'Emergency Management', prefix: 'EM', glyph: 'EM', station: ['eoc'], channel: 'em',
@@ -169,6 +169,6 @@ export const CAPABILITY_REQUEST_PHRASE = {
   ladder: 'a ladder truck', rescue: 'heavy rescue', fire_investigation: 'a fire investigator', hazmat: 'HazMat',
   tech_rescue: 'technical rescue', wildland: 'brush units', fire_command: 'a battalion chief', bls: 'an ambulance',
   als: 'ALS / a medic unit', transport: 'a transport unit', ems_command: 'an EMS supervisor', critical_care: 'critical care transport',
-  air_medical: 'LifeFlight', em: 'emergency management', sar: 'search and rescue', public_works: 'public works', animal: 'animal control',
+  air_medical: 'Air Medical', em: 'emergency management', sar: 'search and rescue', public_works: 'public works', animal: 'animal control',
   dot: 'DOT', utility: 'the utility company', coast_guard: 'the Coast Guard', disaster: 'disaster response', comms: 'mobile command',
 };

diff --git a/js/data/scenarios/rural.js b/js/data/scenarios/rural.js
@@ -25,7 +25,7 @@ export default [
     facts: { conscious: 'He\'s awake but he\'s in a lot of pain.', breathing: 'Yes, he\'s breathing.', bleeding: { say: 'He\'s bleeding pretty bad.', note: 'Significant bleeding' }, access: 'We\'re out in the back field, I\'ll leave the gate open by the road.', hazards: 'The engine\'s off. Diesel\'s leaking a little.' },
     instructions: { pressure: ['I\'ve got a rag on it, pushing hard.'], position: ['Okay, I won\'t try to move him.'], light: ['I\'ll send my son to the road to flag them down.'] },
     patients: 1, critical: (r) => r.chance(0.5),
-    developments: [{ at: 0.3, chance: 0.4, text: 'Patient has a serious leg injury and a long transport – requesting LifeFlight to a landing zone in the field.', addNeeds: { air_medical: 1 }, critical: true }],
+    developments: [{ at: 0.3, chance: 0.4, text: 'Patient has a serious leg injury and a long transport – requesting Air Medical to a landing zone in the field.', addNeeds: { air_medical: 1 }, critical: true }],
     sizeup: ['Tractor overturned in a ditch, one male pinned, conscious. Stabilizing the tractor.'], clear: ['patient extricated and flown out.', 'patient transported, tractor stabilized.'] }),
   S({ id: 'combine_fire', typeId: 'FIRE_BRUSH', weight: 1.0, severity: 'medium', zones: ['rural'], weather: { clear: 2, rain: 0.1, snow: 0, thunderstorm: 0.3 }, time: { afternoon: 2, morning: 1, evening: 1, night: 0.2 },
     vars: (r) => ({ crop: r.pick(['corn', 'bean', 'wheat stubble']) }),

diff --git a/js/data/scenarios/fire.js b/js/data/scenarios/fire.js
@@ -23,7 +23,7 @@ export default [
     needs: { suppression: 2, ladder: 0.5, fire_command: 0.5, bls: 1 }, patients: (r) => (r.chance(0.5) ? 1 : 0), workload: 160,
     developments: [{ after: 90, chance: 0.6, text: 'Fire has extended beyond the kitchen into the dining room.', addNeeds: { suppression: 1, ladder: 0.5 }, workload: 100, callerLine: 'It\'s in the dining room now, the whole house is filling with smoke!' }],
     sizeup: ['Two-story residential, light smoke showing from the front door, fire in the kitchen.', 'Smoke showing from the rear, going in with a line.'],
-    clear: ['fire contained to the kitchen, overhaul complete, Red Cross notified.'] }),
+    clear: ['fire contained to the kitchen, overhaul complete, relief volunteers notified.'] }),
   S({ id: 'fire_house', typeId: 'FIRE_STR', weight: 1.8, severity: 'major', time: { night: 1.8, evening: 1.3 }, personas: ['panicked', 'worried', 'calm'],
     vars: (r) => ({ stories: r.pick(['two-story', 'one-story', 'split-level']), where: r.pick(['the garage', 'the upstairs windows', 'the roof', 'the back of the house']), color: r.pick(['black', 'thick black', 'gray']) }),
     nature: [`The house next door is on fire! There's flames coming out of {where}!`, `Fire! My neighbor's house is on fire, the whole {stories} house is filling up with smoke!`, `There's a house fire on {street}, flames are shooting out of {where}!`],
